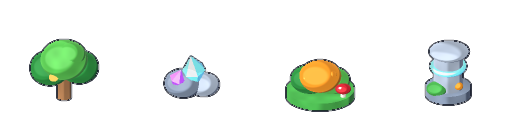
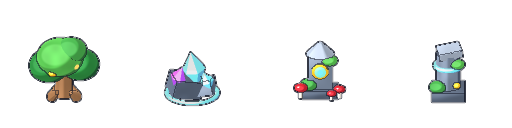
feat(graphics): upgrade sprites, seamless 128x128 meadow tiles, flagstone roads, additive lighting, and radial vignette

diff --git a/src/scenes/GameScene.ts b/src/scenes/GameScene.ts
@@ -132,7 +132,20 @@ export class GameScene extends Phaser.Scene {
   private monsterSprites = new Map<number, Phaser.GameObjects.Sprite>();
   private spritePool: Phaser.GameObjects.Sprite[] = [];
   private shadowGraphics!: Phaser.GameObjects.Graphics;
+  private lightPoolSprites: Phaser.GameObjects.Image[] = [];
   private fxGraphics!: Phaser.GameObjects.Graphics;
+  private atmosphereGraphics!: Phaser.GameObjects.Graphics;
+  private ambientMotes: Array<{
+    ox: number;
+    oy: number;
+    vx: number;
+    vy: number;
+    r: number;
+    phase: number;
+    speed: number;
+    variant: number;
+  }> = [];
+  private vignetteOverlay?: Phaser.GameObjects.Image;
   private fxPool: Phaser.GameObjects.Image[] = [];
   private activeFxSprites: Phaser.GameObjects.Image[] = [];
   private barGraphics!: Phaser.GameObjects.Graphics;
@@ -332,8 +345,35 @@ export class GameScene extends Phaser.Scene {
 
     this.drawWorld();
     this.shadowGraphics = this.add.graphics().setDepth(3.2);
+    this.lightPoolSprites = [];
+    if (this.textures.exists('vfx_projectile')) {
+      for (let i = 0; i < 6; i++) {
+        this.lightPoolSprites.push(
+          this.add
+            .image(CORE_X, CORE_Y, 'vfx_projectile')
+            .setDepth(3.5)
+            .setBlendMode(Phaser.BlendModes.ADD)
+            .setAlpha(0),
+        );
+      }
+    }
     this.barGraphics = this.add.graphics().setDepth(20);
     this.fxGraphics = this.add.graphics().setDepth(15);
+    this.atmosphereGraphics = this.add.graphics().setDepth(24);
+    this.ambientMotes = [];
+    const atmRng = RunRng.fromSeed(this.state.seed).get('map');
+    for (let i = 0; i < 28; i++) {
+      this.ambientMotes.push({
+        ox: (atmRng.next() - 0.5) * 1400,
+        oy: (atmRng.next() - 0.5) * 860,
+        vx: (atmRng.next() - 0.35) * 18,
+        vy: -8 - atmRng.next() * 14,
+        r: 1.5 + atmRng.next() * 1.9,
+        phase: atmRng.next() * Math.PI * 2,
+        speed: 1.8 + atmRng.next() * 2.2,
+        variant: i % 3,
+      });
+    }
     this.bossSprite = this.add.sprite(0, 0, 'boss_bloodmoon_walk').setScale(1.1).setDepth(9).setVisible(false);
     this.playerSprite = this.add.sprite(this.state.player.x, this.state.player.y, 'hero_idle').setScale(0.54).setDepth(this.depthAtY(this.state.player.y));
     this.cameras.main.setBounds(0, 0, WORLD, WORLD).startFollow(this.playerSprite, true, 0.15, 0.15);
@@ -343,6 +383,27 @@ export class GameScene extends Phaser.Scene {
       .setOrigin(0)
       .setScrollFactor(0)
       .setDepth(500);
+    if (!this.textures.exists('vignette_radial') && typeof this.textures.createCanvas === 'function') {
+      const cTex = this.textures.createCanvas('vignette_radial', 256, 256);
+      if (cTex) {
+        const ctx = cTex.context;
+        const grad = ctx.createRadialGradient(128, 128, 72, 128, 128, 176);
+        grad.addColorStop(0, 'rgba(5, 8, 22, 0)');
+        grad.addColorStop(0.55, 'rgba(5, 8, 22, 0.28)');
+        grad.addColorStop(1, 'rgba(5, 8, 22, 0.92)');
+        ctx.fillStyle = grad;
+        ctx.fillRect(0, 0, 256, 256);
+        cTex.refresh();
+      }
+    }
+    if (this.textures.exists('vignette_radial')) {
+      this.vignetteOverlay = this.add
+        .image(0, 0, 'vignette_radial')
+        .setOrigin(0)
+        .setScrollFactor(0)
+        .setDepth(501)
+        .setAlpha(0);
+    }
 
     const kb = this.input.keyboard!;
     this.keys = {
@@ -605,6 +666,7 @@ export class GameScene extends Phaser.Scene {
     this.drawBars();
     this.phaseShade.setFillStyle(PHASE_TINT[this.state.phase], PHASE_ALPHA[this.state.phase]);
     this.phaseShade.setSize(this.scale.width, this.scale.height);
+    this.updateVignette();
     this.drawHud(fpsSnap);
     this.syncOverlay();
     this.debug.update(this.state, this.children.length);
@@ -641,11 +703,42 @@ export class GameScene extends Phaser.Scene {
     const moving = move.x !== 0 || move.y !== 0;
     const down = isPlayerDown(s);
 
-    // Warm atmospheric glow halos centered over the 4 3D Sanctuary braziers + pulsing Core aura
+    // Warm atmospheric glow halos & additive light pools over the 4 Sanctuary braziers, Core & Hero
+    const phaseLight = s.phase === 'night' ? 1.0 : s.phase === 'evening' ? 0.65 : 0.16;
     const emberPulse = 0.24 + 0.08 * Math.sin(this.animTime * 7.2);
-    for (const [bx, by] of [[-91, -78], [91, -78], [-91, 18], [91, 18]]) {
-      sg.fillStyle(0xf97316, emberPulse * 0.6).fillEllipse(CORE_X + bx, CORE_Y + by, 54, 34);
-      sg.fillStyle(0xfef08a, emberPulse * 0.38).fillEllipse(CORE_X + bx, CORE_Y + by, 24, 16);
+    const braziers: Array<[number, number]> = [[-91, -78], [91, -78], [-91, 18], [91, 18]];
+    for (let i = 0; i < braziers.length; i++) {
+      const [bx, by] = braziers[i];
+      const lx = CORE_X + bx;
+      const ly = CORE_Y + by;
+      sg.fillStyle(0xf97316, emberPulse * 0.6).fillEllipse(lx, ly, 54, 34);
+      sg.fillStyle(0xfef08a, emberPulse * 0.38).fillEllipse(lx, ly, 24, 16);
+      const lp = this.lightPoolSprites[i];
+      if (lp) {
+        const flicker = 1 + 0.08 * Math.sin(this.animTime * 8.4 + i * 1.7);
+        lp.setPosition(lx, ly + 8)
+          .setTint(0xfb923c)
+          .setDisplaySize(124 * flicker, 78 * flicker)
+          .setAlpha((0.26 + 0.1 * Math.sin(this.animTime * 6.5 + i)) * phaseLight);
+      }
+    }
+    const coreLight = this.lightPoolSprites[4];
+    if (coreLight) {
+      const cp = 1 + 0.06 * Math.sin(this.animTime * 3.1);
+      coreLight
+        .setPosition(CORE_X, CORE_Y + 4)
+        .setTint(0xa78bfa)
+        .setDisplaySize(188 * cp, 114 * cp)
+        .setAlpha(0.24 * phaseLight);
+    }
+    const heroLight = this.lightPoolSprites[5];
+    if (heroLight) {
+      const heroAlpha = down ? 0 : s.phase === 'night' ? 0.34 : s.phase === 'evening' ? 0.2 : 0.04;
+      heroLight
+        .setPosition(s.player.x, s.player.y + 4)
+        .setTint(0xfde68a)
+        .setDisplaySize(196, 118)
+        .setAlpha(heroAlpha);
     }
 
     // 2.5D cartoon slate-ink drop shadow for Core pedestal
@@ -1162,6 +1255,52 @@ export class GameScene extends Phaser.Scene {
         }
       }
     }
+    this.drawAtmosphere(dt);
+  }
+
+  private drawAtmosphere(dt: number): void {
+    const ag = this.atmosphereGraphics.clear();
+    if (!this.ambientMotes.length) return;
+    const cam = this.cameras.main;
+    const cx = cam.midPoint.x;
+    const cy = cam.midPoint.y;
+    const halfW = 700;
+    const halfH = 430;
+    const phase = this.state.phase;
+
+    for (const m of this.ambientMotes) {
+      m.ox += m.vx * dt + Math.sin(this.animTime * m.speed + m.phase) * 9 * dt;
+      m.oy += m.vy * dt + Math.cos(this.animTime * m.speed * 0.8 + m.phase) * 5 * dt;
+      if (m.ox < -halfW) m.ox += halfW * 2;
+      if (m.ox > halfW) m.ox -= halfW * 2;
+      if (m.oy < -halfH) m.oy += halfH * 2;
+      if (m.oy > halfH) m.oy -= halfH * 2;
+
+      const wx = cx + m.ox;
+      const wy = cy + m.oy;
+      const pulse = 0.55 + 0.45 * Math.sin(this.animTime * (m.speed * 1.4) + m.phase);
+
+      if (phase === 'day') {
+        const col = m.variant === 0 ? 0xfef08a : m.variant === 1 ? 0xd9f99d : 0xffffff;
+        ag.fillStyle(col, 0.38 * pulse).fillCircle(wx, wy, m.r * 1.45);
+        ag.fillStyle(0xffffff, 0.55 * pulse).fillCircle(wx, wy, m.r * 0.55);
+      } else if (phase === 'evening') {
+        const col = m.variant === 0 ? 0xf97316 : m.variant === 1 ? 0xfacc15 : 0xfef08a;
+        ag.fillStyle(col, 0.32 * pulse).fillCircle(wx, wy, m.r * 2.1);
+        ag.fillStyle(0xfef9c3, 0.72 * pulse).fillCircle(wx, wy, m.r * 0.85);
+      } else {
+        const col = m.variant === 0 ? 0x67e8f9 : m.variant === 1 ? 0xc084fc : 0xa7f3d0;
+        ag.fillStyle(col, 0.24 * pulse).fillCircle(wx, wy, m.r * 3.1);
+        ag.fillStyle(col, 0.55 * pulse).fillCircle(wx, wy, m.r * 1.6);
+        ag.fillStyle(0xffffff, 0.9 * pulse).fillCircle(wx, wy, m.r * 0.65);
+      }
+    }
+  }
+
+  private updateVignette(): void {
+    if (!this.vignetteOverlay) return;
+    const a = this.state.phase === 'night' ? 0.52 : this.state.phase === 'evening' ? 0.26 : 0;
+    this.vignetteOverlay.setDisplaySize(this.scale.width, this.scale.height).setAlpha(a);
   }
 
   private drawBars(): void {
@@ -2524,8 +2663,8 @@ export class GameScene extends Phaser.Scene {
     if (this.textures.exists('tile_ground_01')) {
       const rt = this.add.renderTexture(0, 0, WORLD, WORLD).setOrigin(0).setDepth(0);
       rt.beginDraw();
-      for (let ty = 0; ty < WORLD; ty += 64) {
-        for (let tx = 0; tx < WORLD; tx += 64) {
+      for (let ty = 0; ty < WORLD; ty += 128) {
+        for (let tx = 0; tx < WORLD; tx += 128) {
           const tileIdx = map.int(1, 5);
           rt.batchDrawFrame(`tile_ground_0${tileIdx}`, undefined, tx, ty);
         }
@@ -2541,12 +2680,93 @@ export class GameScene extends Phaser.Scene {
       }
     }
 
-    // Pre-rendered 3D Sanctuary Plaza around Core.
-    if (this.textures.exists('sanctuary_plaza')) {
-      this.add.image(CORE_X, CORE_Y + 4, 'sanctuary_plaza').setDepth(1.5);
+    // World-space painterly meadow glades + outer ancient rune rings + 4 cardinal beveled flagstone roads.
+    const gRoads = this.add.graphics().setDepth(0.8);
+    const plazaY = CORE_Y + 4;
+    for (let i = 0; i < 32; i++) {
+      const gx = map.int(120, WORLD - 120);
+      const gy = map.int(120, WORLD - 120);
+      const grx = map.int(130, 280);
+      const gry = map.int(85, 180);
+      if (i % 2 === 0) {
+        gRoads.fillStyle(0x86efac, 0.06).fillEllipse(gx, gy, grx, gry);
+      } else {
+        gRoads.fillStyle(0x14532d, 0.09).fillEllipse(gx, gy, grx, gry);
+      }
+    }
+    const drawFlagstone = (fx: number, fy: number, w: number, h: number, milestone = false) => {
+      gRoads.fillStyle(0x1e293b, 0.24).fillRoundedRect(fx - w / 2 + 2, fy - h / 2 + 3, w, h, 7);
+      gRoads.fillStyle(0x8b9db4, 0.92).fillRoundedRect(fx - w / 2, fy - h / 2, w, h, 7);
+      gRoads.fillStyle(0xcbd5e1, 0.72).fillRoundedRect(fx - w / 2 + 2, fy - h / 2 + 2, w - 6, Math.max(4, h * 0.48), 5);
+      gRoads.lineStyle(1.6, 0x1e293b, 0.68).strokeRoundedRect(fx - w / 2, fy - h / 2, w, h, 7);
+      if (milestone) {
+        gRoads.lineStyle(1.8, 0x38bdf8, 0.62).strokeEllipse(fx, fy, w * 0.48, h * 0.48);
+      }
+    };
+
+    // Twin outer Sanctuary stone rings in 3/4 perspective
+    for (const [rx, ry, bw, ba] of [
+      [295, 140, 26, 0.34],
+      [525, 250, 22, 0.24],
+    ] as const) {
+      gRoads.lineStyle(bw, 0x334155, ba).strokeEllipse(CORE_X, plazaY, rx * 2, ry * 2);
+      gRoads.lineStyle(bw - 10, 0x94a3b8, ba * 0.95).strokeEllipse(CORE_X, plazaY, rx * 2, ry * 2);
+      for (let k = 0; k < 12; k++) {
+        const a = (k * Math.PI * 2) / 12;
+        const gx = CORE_X + Math.cos(a) * rx;
+        const gy = plazaY + Math.sin(a) * ry;
+        gRoads.fillStyle(0x38bdf8, ba * 0.9).fillCircle(gx, gy, 2.4);
+      }
     }
 
-    // Deterministic 3D world props (trees, crystal boulders, mana basins, ruin pillars) sorted by Y depth.
+    // East / West flagstone walkways
+    for (const dir of [-1, 1]) {
+      gRoads.fillStyle(0x3b5c34, 0.5).fillRoundedRect(
+        dir > 0 ? CORE_X + 160 : CORE_X - 780,
+        plazaY - 26,
+        620,
+        52,
+        16,
+      );
+      for (let step = 0; step < 14; step++) {
+        const rx = CORE_X + dir * (186 + step * 42);
+        const jit = ((step * 17) % 5) - 2;
+        const isMile = step === 3 || step === 8;
+        drawFlagstone(rx, plazaY - 10 + jit * 0.6, 32, 19, isMile);
+        drawFlagstone(rx + dir * 18, plazaY + 10 - jit * 0.6, 30, 18, false);
+        if (step % 3 === 1) {
+          gRoads.fillStyle(0x4ade80, 0.36).fillCircle(rx + dir * 9, plazaY + (step % 2 === 0 ? -19 : 19), 4);
+        }
+      }
+    }
+
+    // North / South flagstone walkways
+    for (const dir of [-1, 1]) {
+      gRoads.fillStyle(0x3b5c34, 0.5).fillRoundedRect(
+        CORE_X - 28,
+        dir > 0 ? plazaY + 72 : plazaY - 540,
+        56,
+        468,
+        16,
+      );
+      for (let step = 0; step < 14; step++) {
+        const ry = plazaY + dir * (92 + step * 31);
+        const jit = ((step * 13) % 5) - 2;
+        const isMile = step === 2 || step === 5;
+        drawFlagstone(CORE_X - 11 + jit * 0.6, ry, 25, 22, isMile);
+        drawFlagstone(CORE_X + 11 - jit * 0.6, ry + dir * 14, 24, 20, false);
+        if (step % 3 === 1) {
+          gRoads.fillStyle(0x4ade80, 0.36).fillCircle(CORE_X + (step % 2 === 0 ? -23 : 23), ry + dir * 6, 4);
+        }
+      }
+    }
+
+    // Pre-rendered 3D Sanctuary Plaza around Core.
+    if (this.textures.exists('sanctuary_plaza')) {
+      this.add.image(CORE_X, plazaY, 'sanctuary_plaza').setDepth(1.5);
+    }
+
+    // Deterministic 3D world props (trees, crystal boulders, mossy shrine stele, ruin pillars) sorted by Y depth.
     const gPropShadows = this.add.graphics().setDepth(2.2);
     const hasProps = this.textures.exists('world_props');
     for (let i = 0; i < 84; i++) {
@@ -2554,6 +2774,9 @@ export class GameScene extends Phaser.Scene {
       const y = map.int(1, MAP_TILES - 2) * TILE + TILE / 2;
       const kind = map.int(0, 3);
       if (Math.hypot(x - CORE_X, y - CORE_Y) < 188) continue;
+      if ((Math.abs(x - CORE_X) < 44 && Math.abs(y - plazaY) < 560) || (Math.abs(y - plazaY) < 36 && Math.abs(x - CORE_X) < 800)) {
+        continue;
+      }
       if (hasProps) {
         gPropShadows.fillStyle(0x0f172a, 0.14).fillEllipse(x + 4, y + 7, 44, 18);
         gPropShadows.fillStyle(0x0f172a, 0.24).fillEllipse(x + 2, y + 5, 32, 12);

diff --git a/HANDOFF.md b/HANDOFF.md
@@ -71,7 +71,6 @@
 ## Claims (งานที่กำลังทำ — ห้ามแตะไฟล์ในรายการของอีกฝ่าย)
 | ใคร | งาน | ไฟล์/โฟลเดอร์ | เริ่ม |
 | --- | --- | --- | --- |
-| — | (ว่าง) | — | — |
 
 ## Next up (งานที่ยังไม่มีคนรับ — หยิบแล้วย้ายไป Claims)
 > ⚠ งานรอง — ทำ **Gap รอบ 2 (R1–R5)** ด้านบนก่อน
@@ -86,6 +85,10 @@
 8. (จากผล QA & Review ล่าสุด) เชื่อม `TitleScene.ts` เข้า `src/main.ts` (เมนู Casual / Daily Seed / Hardcore 🔒) และเพิ่ม `wordWrap: { width: this.scale.width - 24 }` ให้ `this.hud` ใน `src/scenes/GameScene.ts` เพื่อไม่ให้บรรทัดสถานะ/รายชื่อสกิลบนจอมือถือ 390px ยาวชน `DebugOverlay` หรือล้นขอบขวา
 
 ## Messages (ฝากถึงอีกฝ่าย / ถามผู้สร้าง)
+- **Gemini → Claude & ผู้สร้าง (2026-11-15 22:30) — ยกระดับกราฟิกระดับ Commercial Market (`gemini/commercial-market-graphics` → `main`):**
+  1. **Internal Cel-Ink Creases & มุมกล้อง Heroic 25°:** เพิ่มระบบตรวจขอบความลึก + ขอบชิ้นส่วน/วัสดุ + มุมโค้งภายใน `renderFrame()` (`[20, 24, 38]` mix `0.55`) และปรับมุมกล้อง `THETA` เป็น `25°` ทั่ว `hero_*`, `mob_*`, `elite_*`, `boss_*`, `world_props.png`, `gather_nodes.png`, `sanctuary_plaza.png` พร้อมเพิ่มรายละเอียดผมตั้ง 5 แฉก/ตาฟ้า/ขอบโล่ทองของฮีโร่, เกราะหินคริสตัลของ Golem, เสาหินรูนเรืองแสงพร้อมเห็ดแฟนตาซี (แทนพุ่มไม้เดิม) และเสาโบราณ
+  2. **พื้นหญ้า `128×128` ไร้รอยต่อ & ถนนศิลา 4 ทิศ (`tile_ground_01..05.png` + `GameScene.ts`):** ยกเลิกพื้นลายจุดเทาและอัปเกรดเป็นพื้นหญ้า `128×128` ทอสีกลมกลืนไร้รอยต่อพร้อมกอหญ้า/ดอกไม้เล็ก + วาดลาน glade ธรรมชาติ, วงแหวนรูนนอก 2 ชั้น และถนนหินสกัด 4 ทิศ (`N/S/E/W`) จาก Sanctuary Plaza
+  3. **Additive Lighting, บรรยากาศ & Radial Vignette (`src/scenes/GameScene.ts`):** เพิ่มแสงพื้นแบบ `ADD` 6 จุด (เตาไฟ 4 มุม, แกนฐาน, วงแสงฮีโร่ช่วงเย็น/กลางคืน), ละอองบรรยากาศ 28 เม็ด (ละอองเกสรกลางวัน, ถ่านไฟเย็น, หิ่งห้อยฟ้า/ม่วงกลางคืน) และ `vignette_radial` ขอบจอนุ่มไร้รอยสี่เหลี่ยม (`npm test` **34 ไฟล์ / 247 เทสต์**, `npm run build` ผ่าน, Live Browser QA `1280×720` FPS 60 และ 0 console/page/HTTP errors)
 - **Gemini → Claude & ผู้สร้าง (2026-11-15 21:30) — แทนเมนู รอด 7 คืน ด้วย Daily Seed + ยกระดับกราฟิกแนว Cartoon Animation 128×128 (`gemini/hd-cute-vfx-daily-menu`):**
   1. **เมนูหลัก `TitleScene.ts`:** ถอดปุ่ม `⚔ รอด 7 คืน (CASUAL)` ออกตามคำสั่งผู้สร้าง และยก **`🎲 DAILY SEED (#YYYYMMDD)`** (`tone: 'crimson'`, เรียก `startGame('daily', dailySeed(isoToday))`) ขึ้นเป็นปุ่มหลักบนสุดแทน พร้อมสร้าง Key Art พื้นหลัง `public/assets/ui/title_bg.jpg` แนว 2D cel-shaded cartoon animation เส้นหมึกคมชัดสีสด (ไม่มีโทนหวาน/พาสเทล)
   2. **สไปรต์ความละเอียด 4 เท่า (`128×128`/เฟรม) + แนว Cartoon Animation Cel-Shaded:** อัปเกรด 3-band cel-shaded toon shading + เงาสีน้ำเงินเข้ม (`0x0f172a`) + เส้นหมึกดำคมกริบทั่วตัวละคร, มอนสเตอร์ (`hero_*`, `mob_*`, `elite_*`, `boss_*`), พร็อพฉาก `world_props.png`, จุดเก็บของ `gather_nodes.png`, แท่นศิลา `sanctuary_plaza.png`, พื้นหญ้า/หิน `tile_ground_01..05.png`, ไอคอนสกิล 38 ชิ้น (`64×64`) + กรอบการ์ด 6 ระดับ (`64×72`), และเท็กซ์เจอร์ `vfx_*.png` (`128×128`) โดยทุก PNG ขนาด `< 256 KB`
@@ -249,3 +252,4 @@
 | 2026-11-15 01:40 | Claude (แชต) | **R4 ฝั่ง HUD** (ทำแทน Gemini เพราะไม่มี claim และไม่มีความเคลื่อนไหวตั้งแต่ 00:31): แผง HUD แสดง "Synergy — ดิน ขั้น 4: เลือดสูงสุด +10% · โดนตีเบาลง 10% · วงโจมตีกว้างขึ้น" จาก `state.synergy` + `SYNERGY_TEXT_TH` (`formatSynergyTiers` ใน `eveningUiModel.ts`) แทนการนับเอง · ตรวจใน Chrome ✅ · เทสต์ 244/244 · Gemini ปรับหน้าตาต่อได้ | `claude/hud-synergy-tiers` |
 | 2026-11-15 16:49 | Gemini | **ปรับภาพ 2.5D แนวละมุนการ์ตูนน่ารัก + ปิด R4/G6 & ยืนยัน R1–R6 (`gemini/commercial-hd-complete` → `main`):** Merge `origin/main` (PR #69, #70) + รีเรนเดอร์สไปรต์ Chibi & ฉากพาสเทล `2.5D Toon` 27 ไฟล์ (บ่อน้ำหลังคาสีพีช/ข้าว/เห็ดใน `gather_nodes.png` แยกต่างจากพร็อพชัดเจน) + ปรับแสงกลางคืน/เงาใน `GameScene.ts` + เพิ่ม R4 HUD Synergy (`2/4/6` + tooltip `SYNERGY_TEXT_TH`), G6 สารานุกรมสูตร `[B]`/หน้าแรก (`codexUiModel.ts`), Smart Draft Cards, Mini-Radar `84×84`, Kill Combo & Elite/Boss Toasts + `tests/codex_ui.test.ts` (วิธีเห็น: เปิดเกมเข้า Casual จะเห็นภาพ Chibi พาสเทล 2.5D + แถบ Synergy & ปุ่ม `[B] สูตรผสม`; `npm test` & `npm run build` ผ่าน, Live Browser QA 0 errors) | `gemini/commercial-hd-complete` |
 | 2026-11-15 16:58 | Claude (แชต) | ตรวจ `main` @ `1feb00f` (งาน Gemini "cute pastel 2.5D + R4 HUD + G6 codex"): เทสต์ 247/247, build + deploy ผ่าน · R1/R2/R3/R5 เล่นจริงใน Chrome ยังทำงาน ✅ · HUD synergy ของ Gemini ใช้ `synergyCounts/synergyTiers` จาก systems ✅ (ตรงกฎแหล่งความจริงเดียว) · รับทราบ Gemini ยืนยัน R1–R6 แล้ว → **Gap รอบ 2 ปิดครบ** · ⚠ ข้อสังเกต: (1) commit นี้ merge เข้า `main` ตรงโดยไม่ผ่าน PR — AGENTS.md ให้เปิด PR เสมอ (CI จะได้ตรวจก่อน) (2) พร็อพน้ำพุสีขาวยังคล้ายบ่อน้ำที่เก็บได้ (ข้อสังเกตเมื่อ 00:40) · ยังรอผู้สร้างตอบ: บัฟปลาย่าง + บาลานซ์คืน 3–4 | `claude/verify-1feb00f` |
+| 2026-11-15 22:30 | Gemini | **ยกระดับกราฟิกระดับ Commercial Market (`gemini/commercial-market-graphics` → `main`):** เพิ่ม internal cel-ink crease detection & มุมกล้อง 25° ทั่ว sprites/props/gather nodes, อัปเกรด Hero/Monsters/Rune Shrine Stele & `tile_ground_01..05.png` `128×128` ไร้รอยต่อ, เพิ่มถนนหินสกัด 4 ทิศ + วงแหวนรูนนอก, additive brazier/hero/core light pools, ละอองบรรยากาศ 28 เม็ด และ radial vignette (`npm test` 34 ไฟล์/247 เทสต์, `npm run build` ผ่าน, Live Browser QA 60 FPS & 0 errors) | `gemini/commercial-market-graphics` → `main` |
